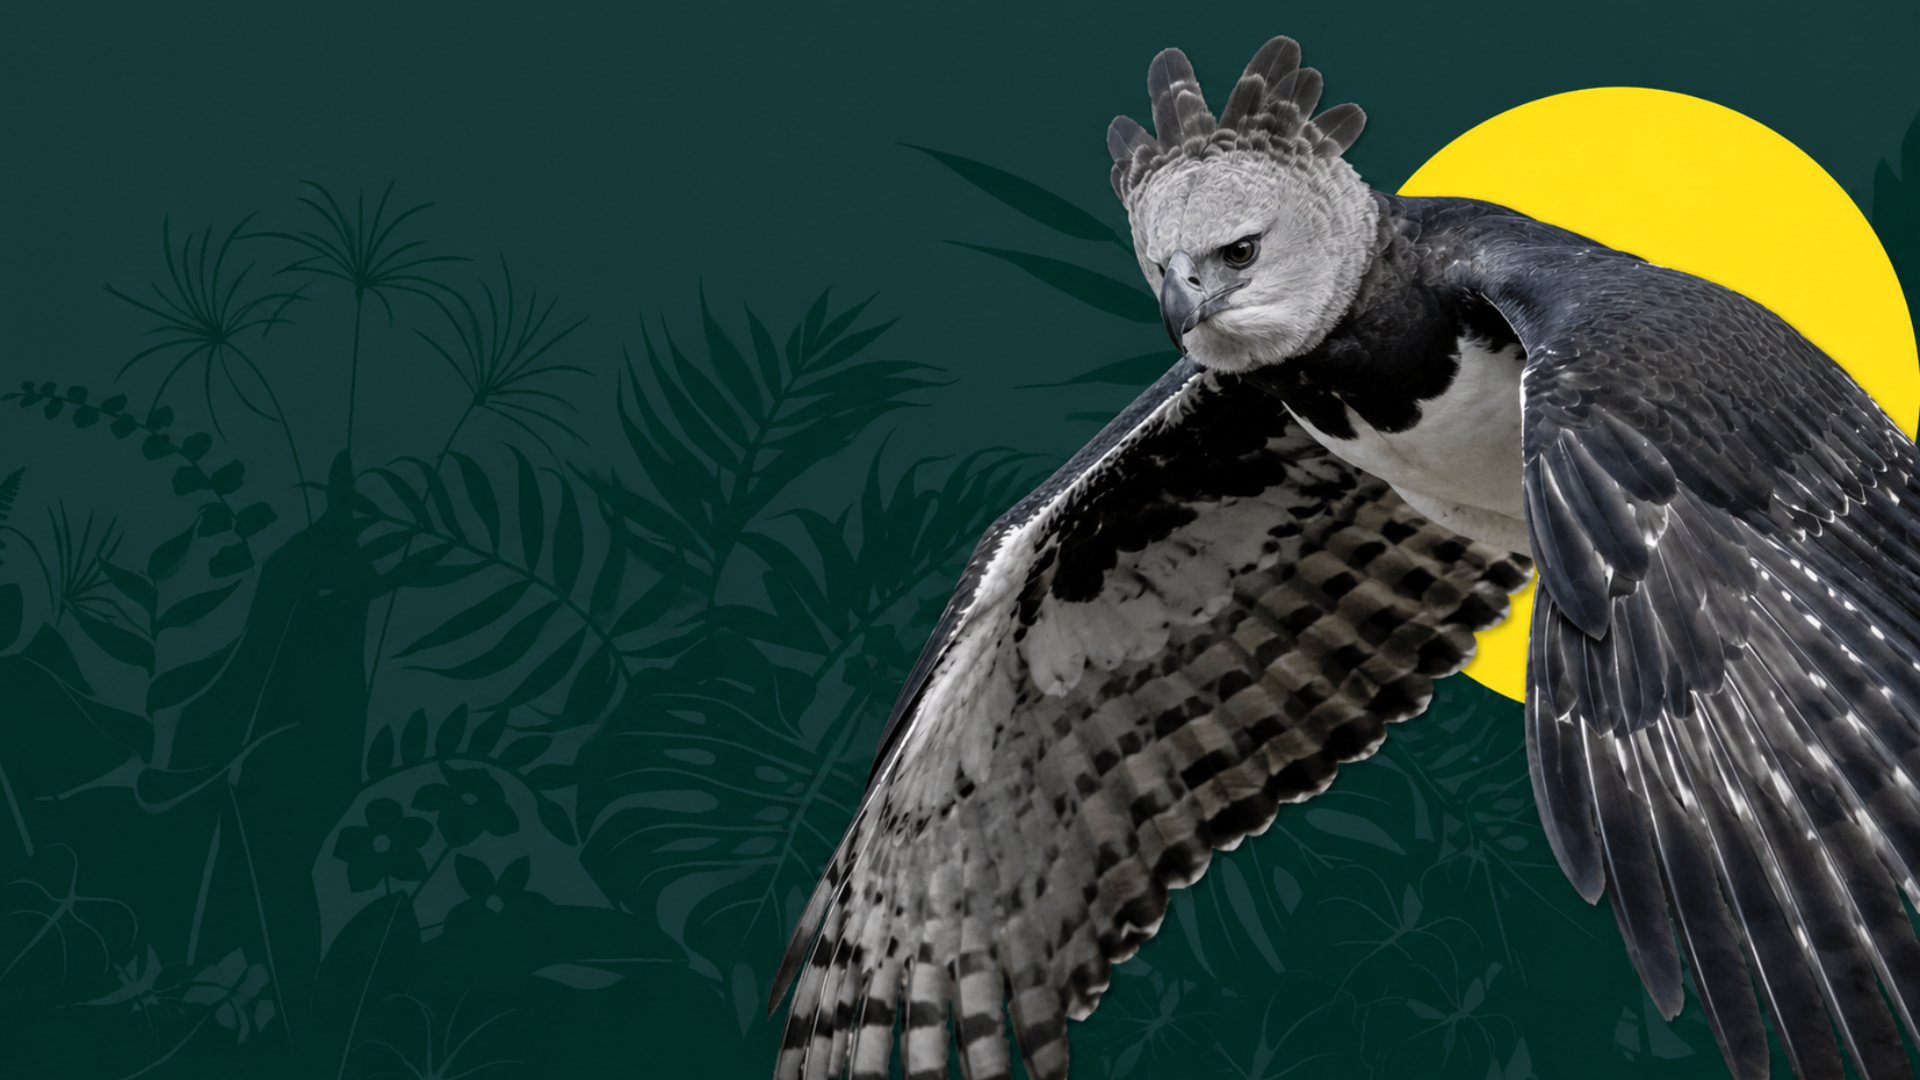
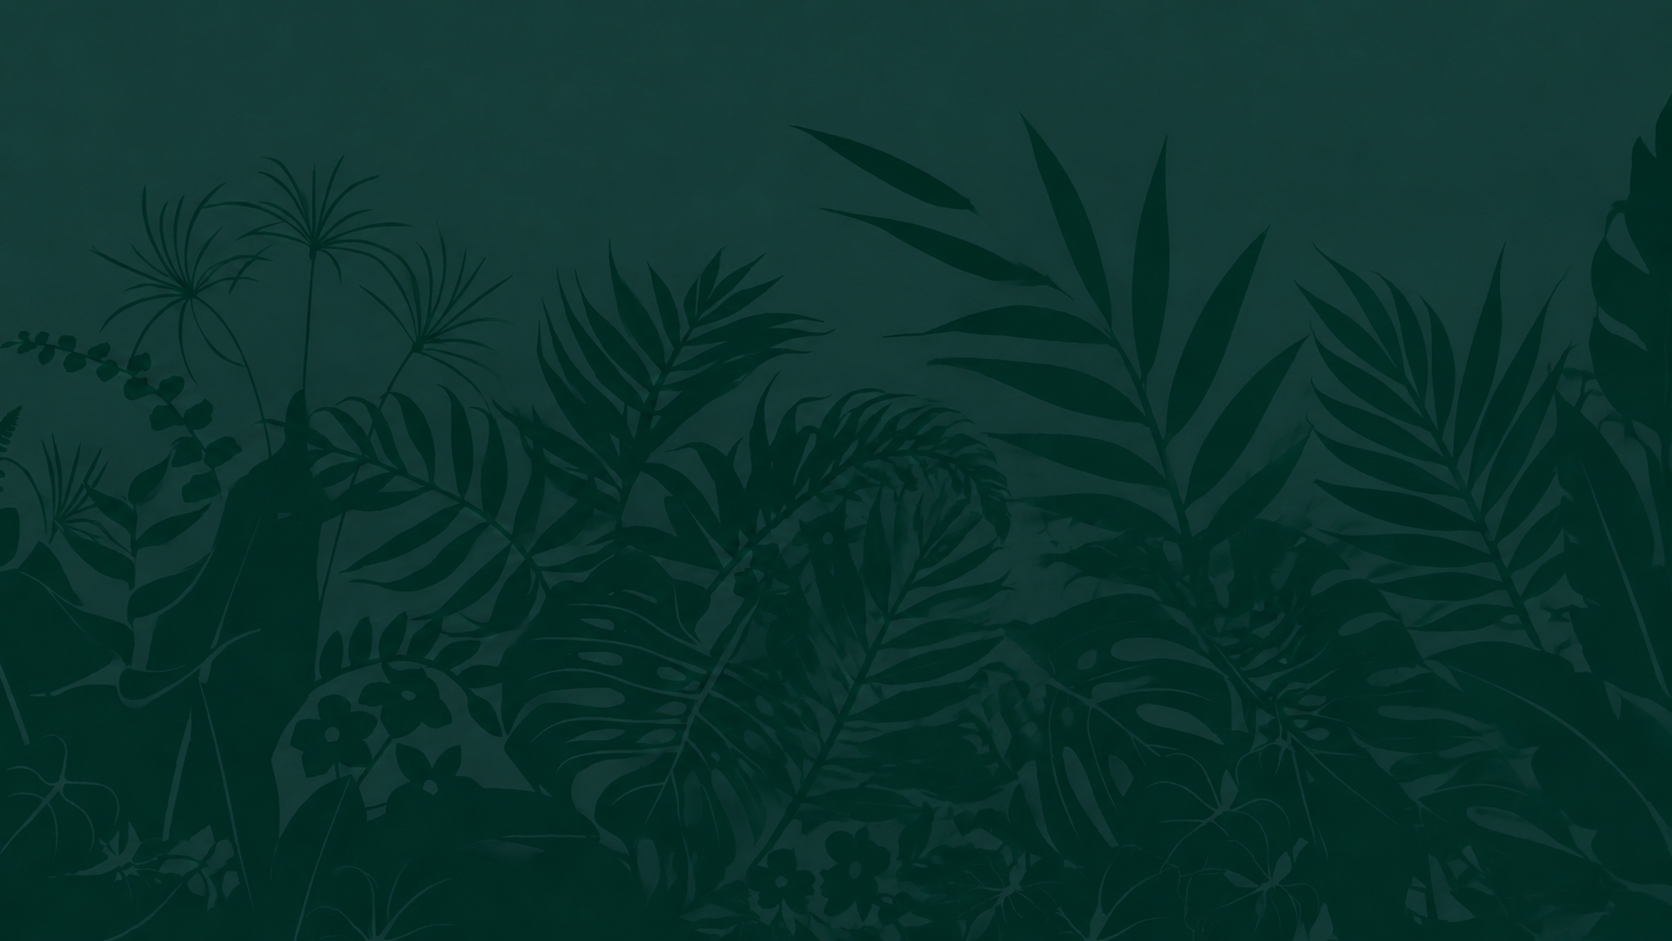
commit insecterik 9

diff --git a/index.html b/index.html
@@ -105,6 +105,10 @@
   .hero{
     position:relative;
     width:100%;
+    background:url('images/uploads/portada.png');
+    background-size:cover;
+    background-position:center;
+    background-repeat:no-repeat;
     color:white;
     padding:0 60px;
     min-height:88vh;
@@ -113,37 +117,19 @@
     overflow:hidden;
   }
 
-  /* Overlay oscuro encima del slider */
-  .hero::after{
-    content:"";
-    position:absolute;
-    inset:0;
-    background:
-      linear-gradient(120deg, rgba(22,51,47,.82) 35%, rgba(20,41,37,.35) 100%);
-    pointer-events:none;
-    z-index:1;
-  }
-
-  .hero::before{
-    content:"";
-    position:absolute;
-    inset:0;
-    background-image:
-      radial-gradient(circle at 80% 30%, rgba(46,204,113,.15), transparent 60%);
-    pointer-events:none;
-    z-index:2;
-  }
-
   .hero-inner{
-    max-width:1200px;
-    margin:0 auto;
+    max-width:54%;
     width:100%;
     position:relative;
-    text-align:center;
+    text-align:left;
     display:flex;
     flex-direction:column;
-    align-items:center;
+    align-items:flex-start;
     z-index:3;
+  }
+
+  @media (max-width:900px){
+    .hero-inner{ max-width:100%; text-align:center; align-items:center; }
   }
 
   .hero h1{
@@ -817,7 +803,7 @@
     display:flex;
     gap:18px;
     margin-top:56px;
-    justify-content:center;
+    justify-content:flex-start;
   }
 
   .hero-social a{
@@ -850,40 +836,57 @@
     .logo-img{ height:70px; width:70px; }
   }
 
-  /* ===== HERO SLIDER FULLSCREEN ===== */
+  /* ===== HERO SLIDER ===== */
   .hero-slider-fs{
     position:absolute;
-    inset:0;
-    z-index:0;
+    inset:0;                /* ocupa el 100% del hero: top/right/bottom/left = 0 */
+    width:100%;
+    height:100%;
+    z-index:1;               /* detrás del texto (.hero-inner, z-index:3) y delante de la imagen de portada (background del .hero) */
     overflow:hidden;
+  }
+
+  .hero-slider-fs::after{
+    content:"";
+    position:absolute;
+    inset:0;
+    background:rgba(22,51,47,.55);
+    z-index:2;               /* sobre las imágenes del slider para mantener la legibilidad del texto */
+    pointer-events:none;
   }
 
   .slider-track-fs{
     display:flex;
+    width:100%;
     height:100%;
     transition:transform .6s cubic-bezier(.4,0,.2,1);
     will-change:transform;
   }
 
   .slide-fs{
-    min-width:100%;
+    width:100%;
+    min-width:0;
+    max-width:100%;
     height:100%;
     position:relative;
     flex-shrink:0;
+    overflow:hidden;
   }
 
   .slide-fs img{
     width:100%;
+    max-width:100%;
     height:100%;
-    object-fit:cover;
+    object-fit:contain;
+    object-position:right center;
     display:block;
   }
 
-  /* Controles abajo a la izquierda, sobre el overlay */
+  /* Controles abajo a la izquierda del hero */
   .slider-controls-fs{
     position:absolute;
     bottom:44px;
-    left:0;
+    left:60px;
     display:flex;
     align-items:center;
     gap:12px;
@@ -922,8 +925,16 @@
     margin-right:1px;
   }
 
-  @media (max-width:700px){
-    .slider-controls-fs{ bottom:18px; left:0; gap:8px; }
+  @media (max-width:900px){
+    .slider-controls-fs{
+      position:relative;
+      bottom:auto; left:auto;
+      margin-top:24px;
+      gap:8px;
+      justify-content:flex-start;
+      align-self:flex-start;
+      width:100%;
+    }
     .slider-arrow{ font-size:32px; }
     .slider-counter-fs{ font-size:15px; }
     .slider-counter-fs strong{ font-size:22px; }
@@ -1688,6 +1699,7 @@
   // Ahora el orden es: [clon-último, 1, 2, 3, 4, clon-primero]
   // Empezamos en índice 1 (primer slide real)
   var current = 1;
+  var isAnimating = false;
   track.style.transition = 'none';
   track.style.transform  = 'translateX(-' + current * 100 + '%)';
 
@@ -1700,14 +1712,24 @@
   }
 
   function goTo(idx) {
+    if (isAnimating) return;   // evita solapar transiciones (mitad de una slide + mitad de otra)
+    isAnimating = true;
     track.style.transition = 'transform .6s cubic-bezier(.4,0,.2,1)';
     track.style.transform  = 'translateX(-' + idx * 100 + '%)';
     current = idx;
     updateCounter(idx);
+
+    // Red de seguridad: si por lo que sea transitionend no se dispara
+    // (común en algunos navegadores móviles), liberamos el bloqueo
+    // igualmente para que el slider no se quede "congelado".
+    clearTimeout(safetyTimer);
+    safetyTimer = setTimeout(function(){
+      finishTransition();
+    }, 700);
   }
 
-  // Cuando termina la transición, si estamos en un clon saltamos sin animación
-  track.addEventListener('transitionend', function(){
+  function finishTransition(){
+    if (!isAnimating) return;
     if (current === 0) {
       // Estamos en el clon del último → saltar al real último
       track.style.transition = 'none';
@@ -1719,21 +1741,43 @@
       current = 1;
       track.style.transform = 'translateX(-' + current * 100 + '%)';
     }
+    isAnimating = false;
+  }
+
+  var safetyTimer;
+
+  // Cuando termina la transición, si estamos en un clon saltamos sin animación
+  track.addEventListener('transitionend', function(e){
+    if (e.target !== track || e.propertyName !== 'transform') return;
+    clearTimeout(safetyTimer);
+    finishTransition();
   });
 
   prev.addEventListener('click', function(){ goTo(current - 1); resetAuto(); });
   next.addEventListener('click', function(){ goTo(current + 1); resetAuto(); });
 
-  // Swipe táctil
-  var startX = 0;
-  track.addEventListener('touchstart', function(e){ startX = e.touches[0].clientX; }, {passive:true});
+  // Swipe táctil (distingue swipe horizontal de scroll vertical de la página)
+  var startX = 0, startY = 0, touching = false;
+  track.addEventListener('touchstart', function(e){
+    startX = e.touches[0].clientX;
+    startY = e.touches[0].clientY;
+    touching = true;
+    clearInterval(autoTimer);   // pausa el autoplay mientras el usuario toca
+  }, {passive:true});
+
   track.addEventListener('touchend', function(e){
-    var diff = startX - e.changedTouches[0].clientX;
-    if (Math.abs(diff) > 40) { goTo(diff > 0 ? current + 1 : current - 1); resetAuto(); }
+    touching = false;
+    var diffX = startX - e.changedTouches[0].clientX;
+    var diffY = startY - e.changedTouches[0].clientY;
+    // Solo es swipe del slider si el movimiento horizontal domina claramente al vertical
+    if (Math.abs(diffX) > 40 && Math.abs(diffX) > Math.abs(diffY)) {
+      goTo(diffX > 0 ? current + 1 : current - 1);
+    }
+    resetAuto();
   }, {passive:true});
 
   var autoTimer;
-  function startAuto(){ autoTimer = setInterval(function(){ goTo(current + 1); }, 5000); }
+  function startAuto(){ autoTimer = setInterval(function(){ if (!touching) goTo(current + 1); }, 5000); }
   function resetAuto(){ clearInterval(autoTimer); startAuto(); }
 
   updateCounter(1);